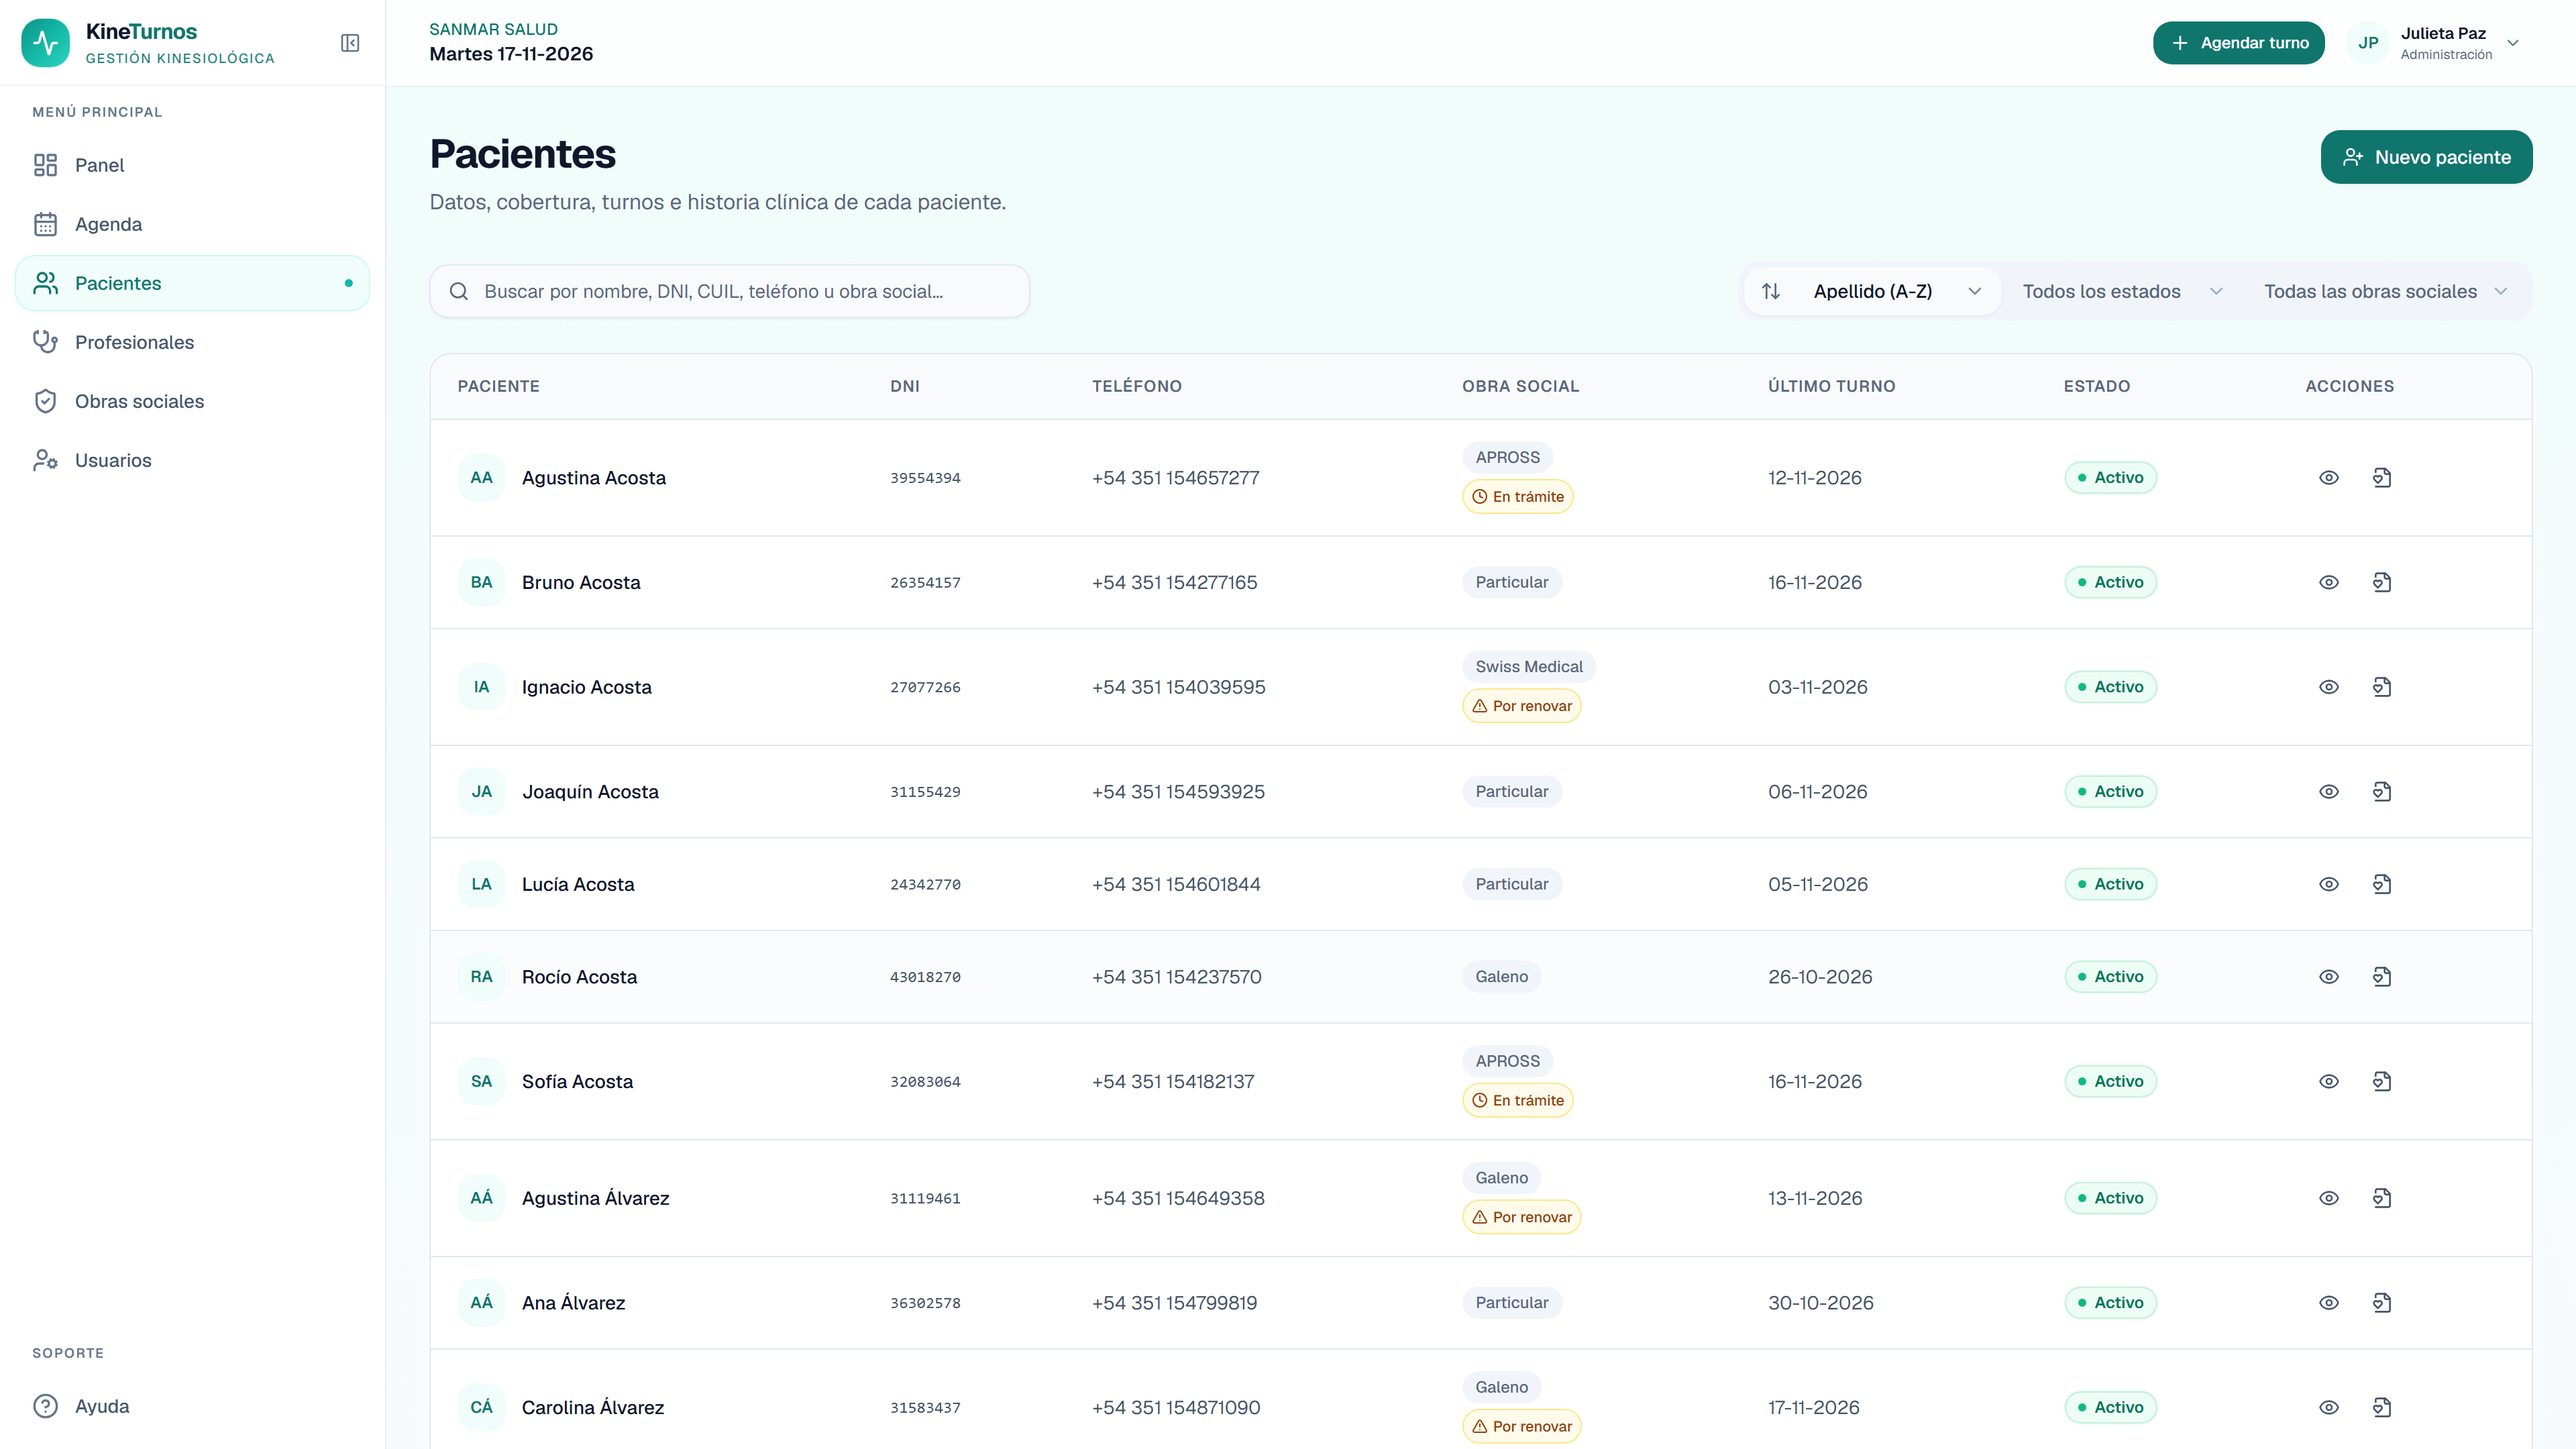
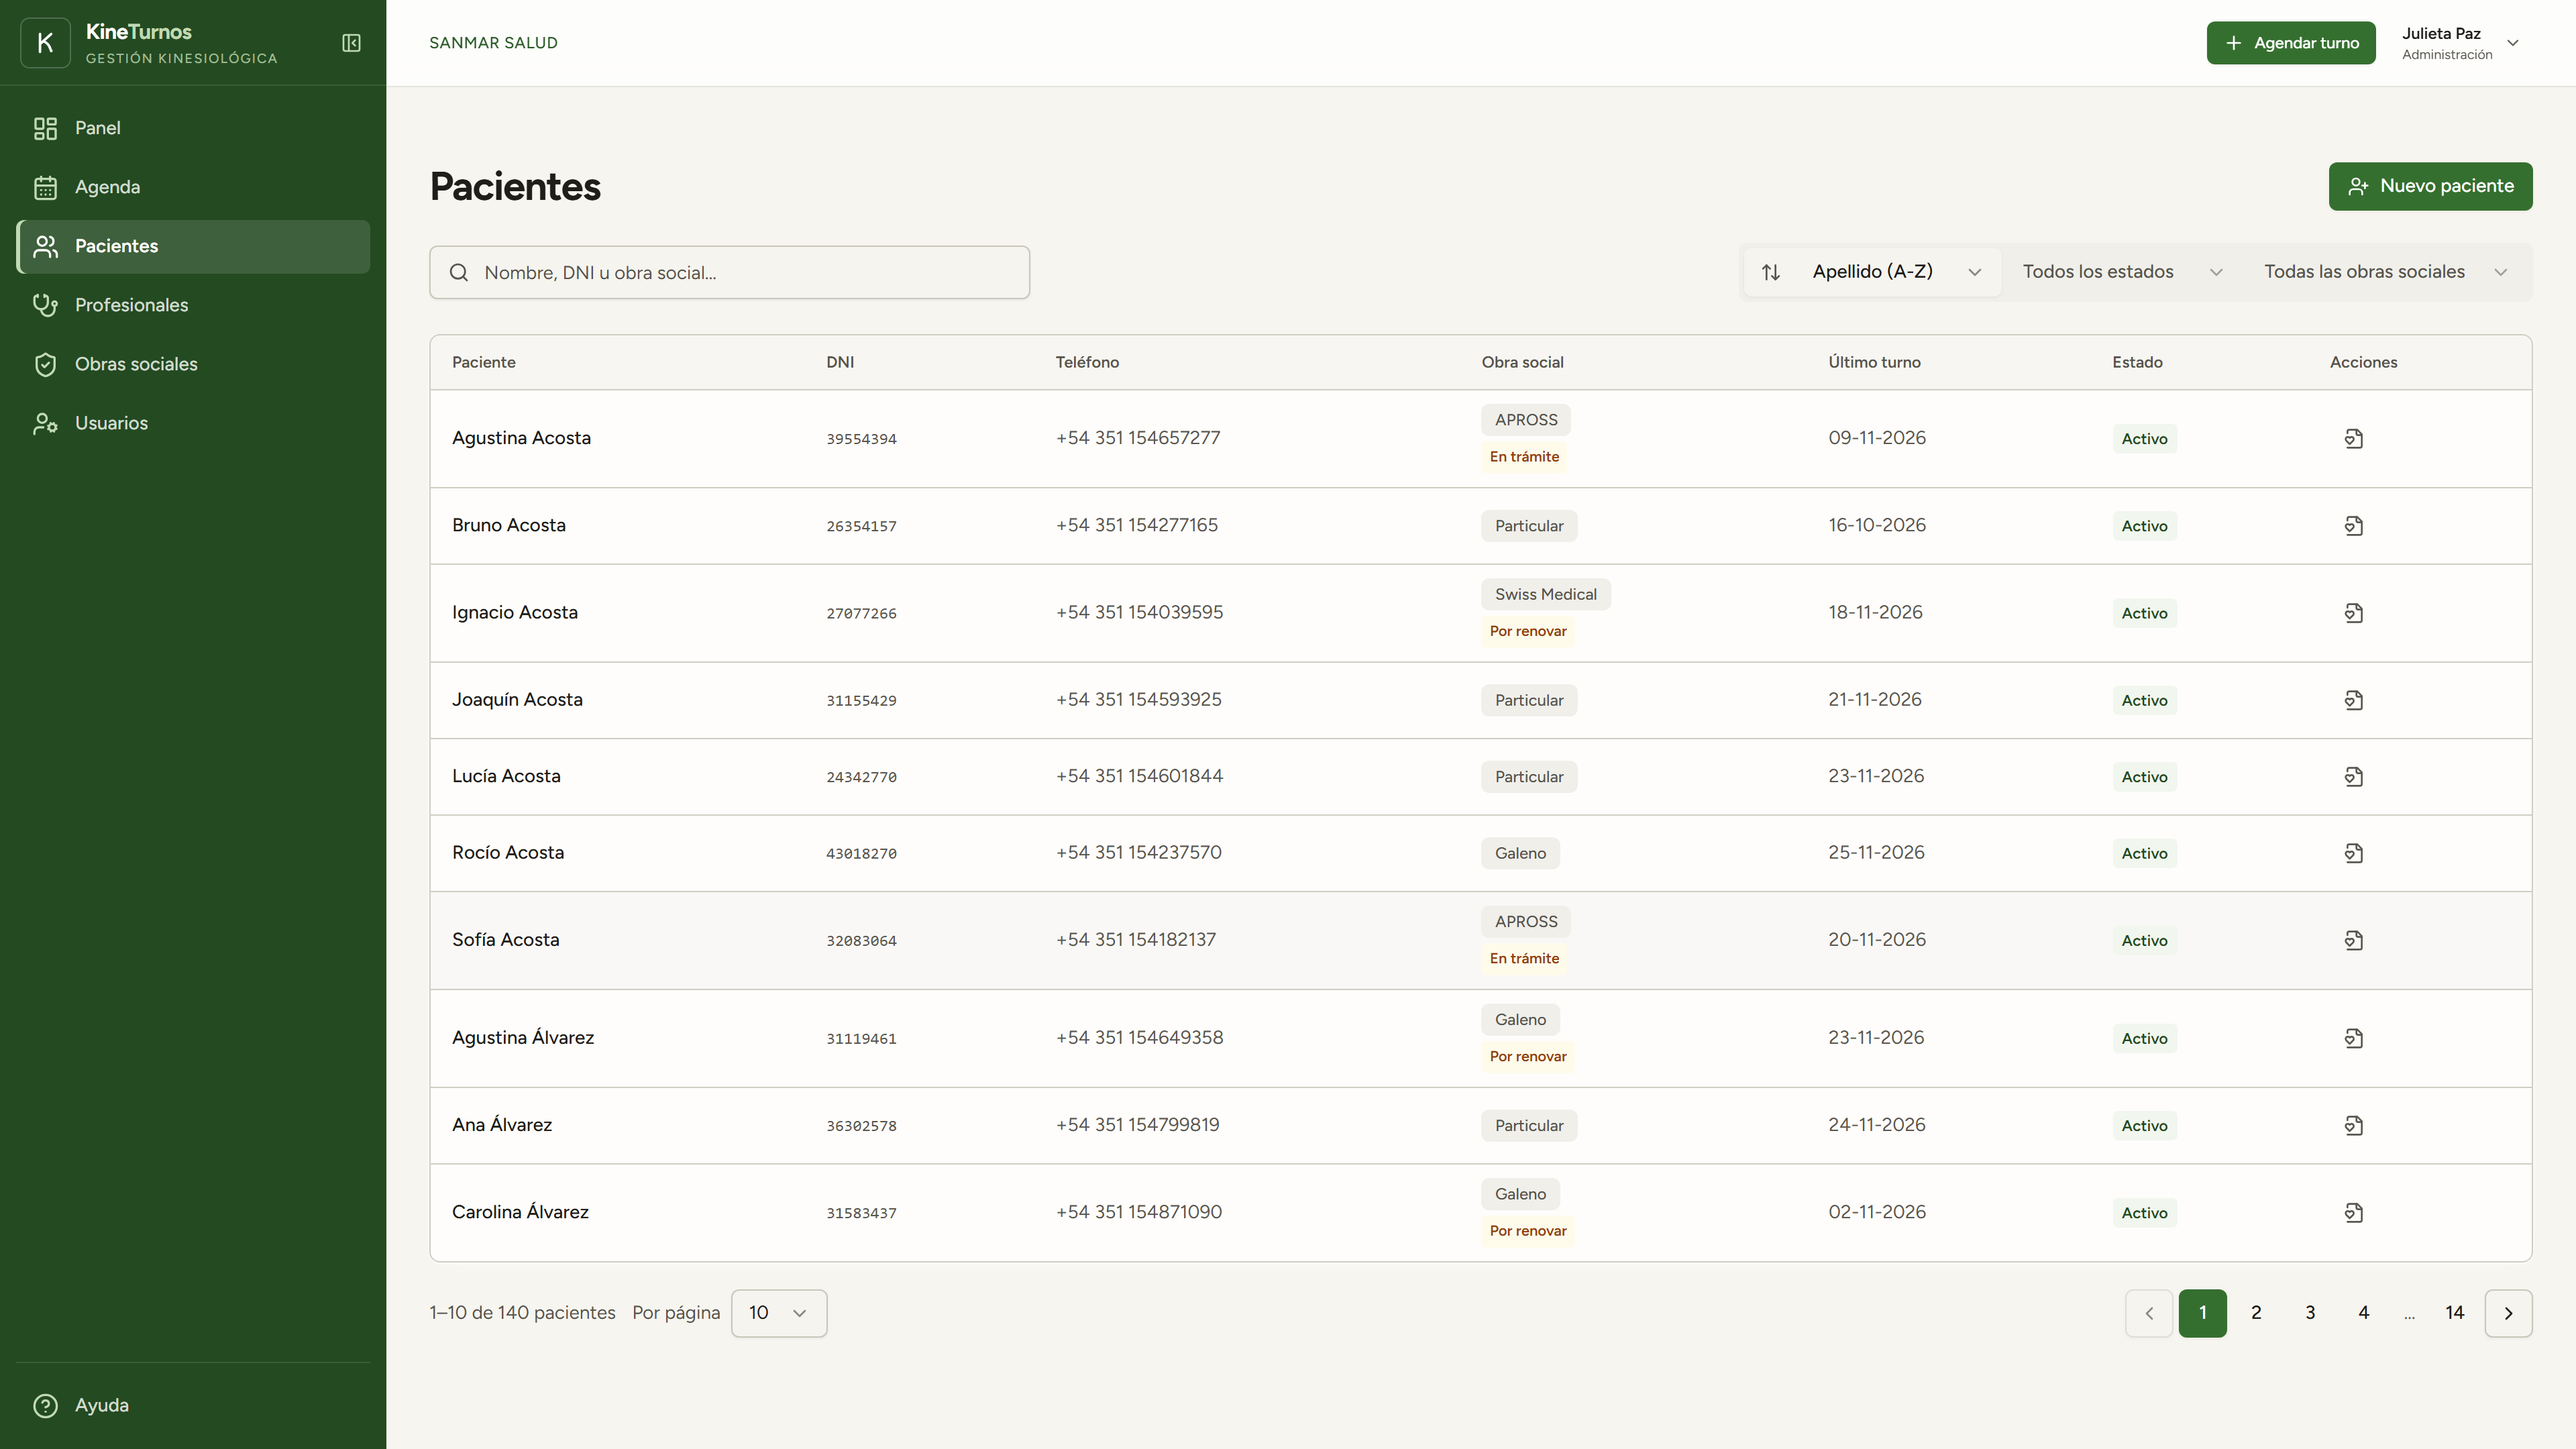
Capturas al día con el diseño actual
Se regeneran las capturas de escritorio (1920 × 1080) y de celular (390 px) con la demo nueva: pantalla de acceso institucional, historia clínica compacta, versión celular según los bocetos y estética más sobria. El script espera los elementos actuales (la historia ya no tiene alertas; en el celular el panel muestra lo del día).

diff --git a/scripts/screenshots/run.ts b/scripts/screenshots/run.ts
@@ -132,7 +132,7 @@ async function main() {
       {
         file: "historia-clinica-desktop.png",
         path: historia,
-        prepare: (p) => p.getByRole("list", { name: "Alertas clínicas" }).waitFor(),
+        prepare: (p) => p.getByRole("article").first().waitFor(),
       },
       {
         file: "autorizaciones-desktop.png",
@@ -153,13 +153,14 @@ async function main() {
       {
         file: "profesionales-desktop.png",
         path: "/profesionales",
-        prepare: (p) => p.getByRole("navigation", { name: "Páginas de profesionales" }).or(p.getByText(/^\d+ profesionales?$/)).first().waitFor(),
+        prepare: (p) => p.getByRole("button", { name: /^Ver detalle de/ }).filter({ visible: true }).first().waitFor(),
       },
       { file: "usuarios-desktop.png", path: "/usuarios", prepare: (p) => p.getByRole("table").getByRole("row").nth(1).waitFor() },
     ];
 
     const mobile: Shot[] = [
-      { file: "dashboard.png", path: "/", prepare: (p) => p.getByRole("region", { name: "Indicadores" }).waitFor() },
+      // En el celular el panel muestra lo del día (los indicadores quedan para la computadora).
+      { file: "dashboard.png", path: "/", prepare: (p) => p.getByRole("region", { name: "Para hacer" }).waitFor() },
       {
         file: "agenda.png",
         path: "/agenda",
@@ -174,11 +175,11 @@ async function main() {
         },
       },
       { file: "pacientes.png", path: "/pacientes", prepare: (p) => p.getByRole("navigation", { name: "Páginas de pacientes" }).waitFor() },
-      { file: "historia-clinica.png", path: historia, prepare: (p) => p.getByRole("list", { name: "Alertas clínicas" }).waitFor() },
+      { file: "historia-clinica.png", path: historia, prepare: (p) => p.getByRole("article").first().waitFor() },
       {
         file: "profesionales.png",
         path: "/profesionales",
-        prepare: (p) => p.getByRole("navigation", { name: "Páginas de profesionales" }).or(p.getByText(/^\d+ profesionales?$/)).first().waitFor(),
+        prepare: (p) => p.getByRole("button", { name: /^Ver detalle de/ }).filter({ visible: true }).first().waitFor(),
       },
       { file: "usuarios.png", path: "/usuarios", prepare: (p) => p.getByRole("list", { name: "Usuarios" }).waitFor() },
     ];
